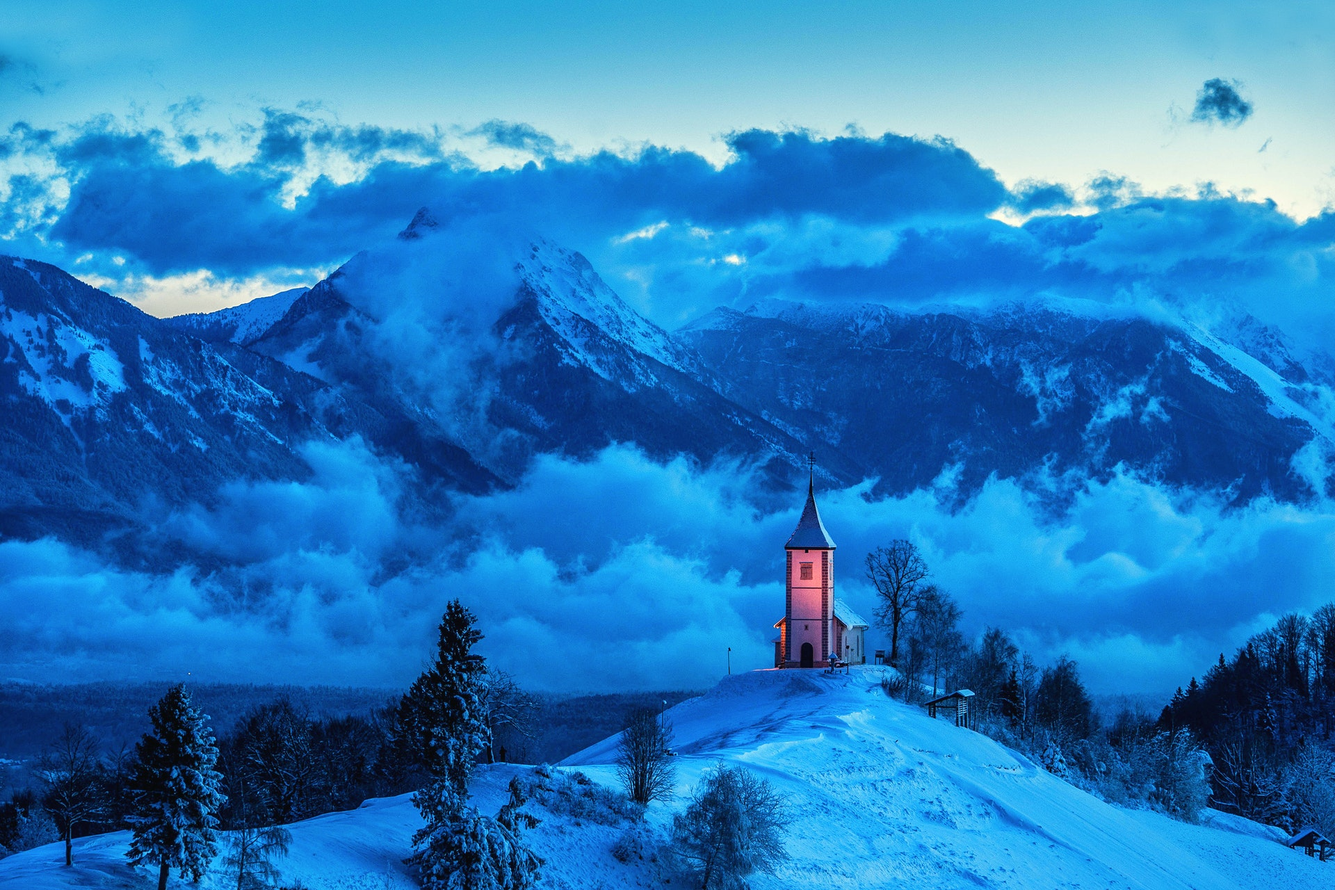
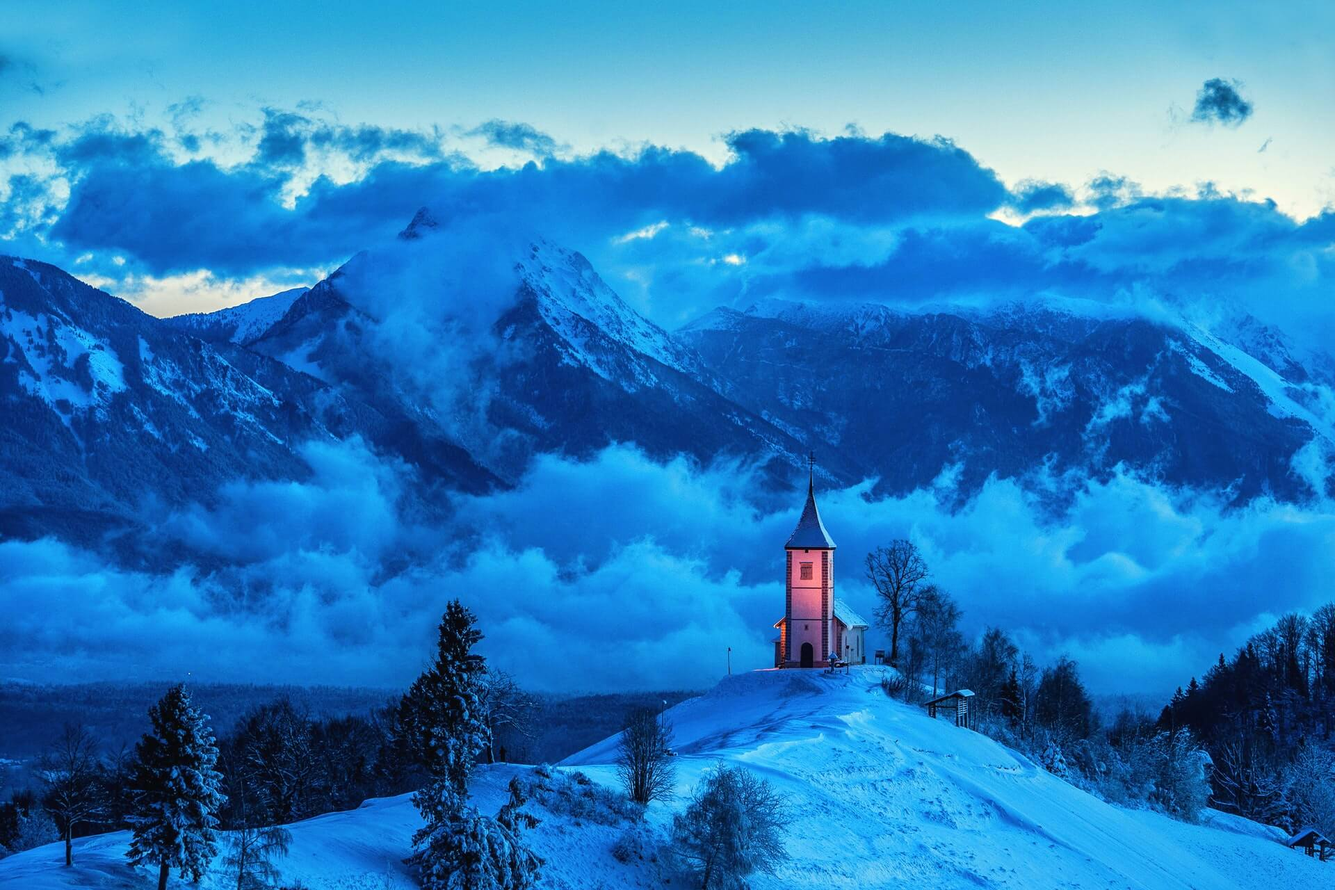
added dp and optimized images

diff --git a/styles/About.module.css b/styles/About.module.css
@@ -45,7 +45,7 @@
   --scale: min(80vw, 200px);
   width: var(--scale);
   height: var(--scale);
-  background: url(../assets/images/IMG_8742_2.JPG) no-repeat;
+  background: url(../assets/images/dp5.jpg) no-repeat;
   background-size: cover;
   background-position: top center;
   border-radius: 50%;
